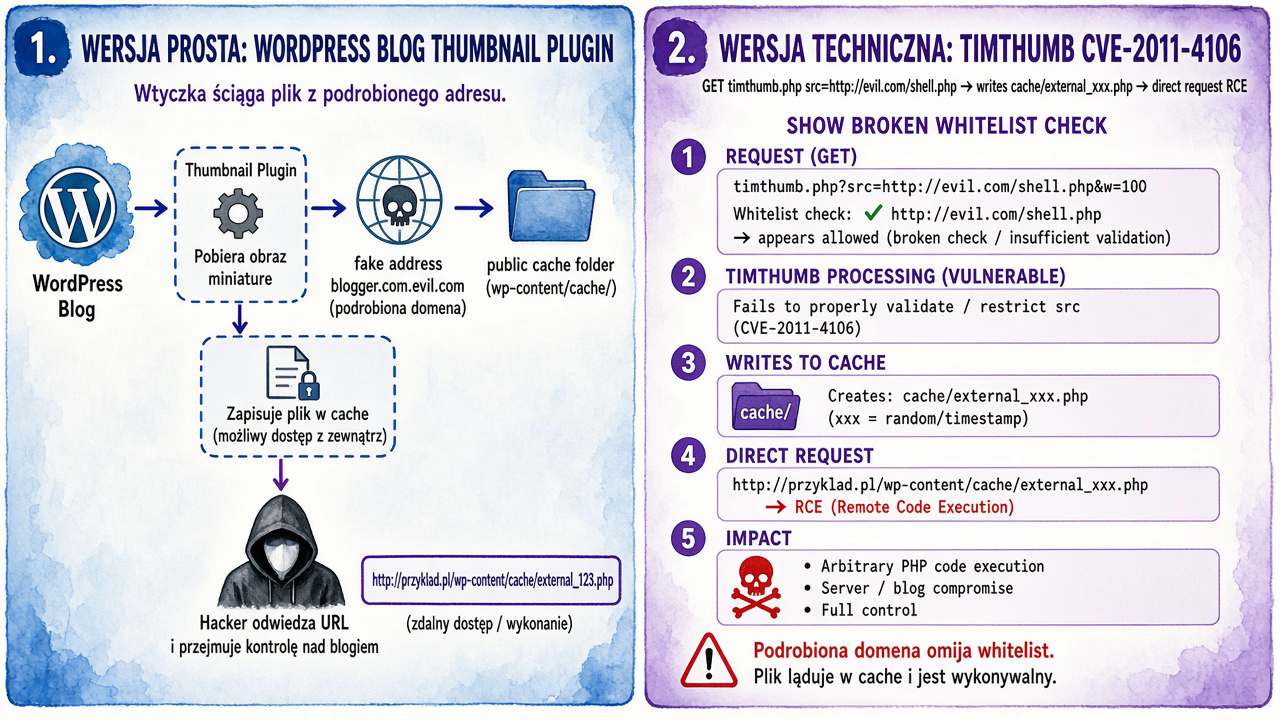
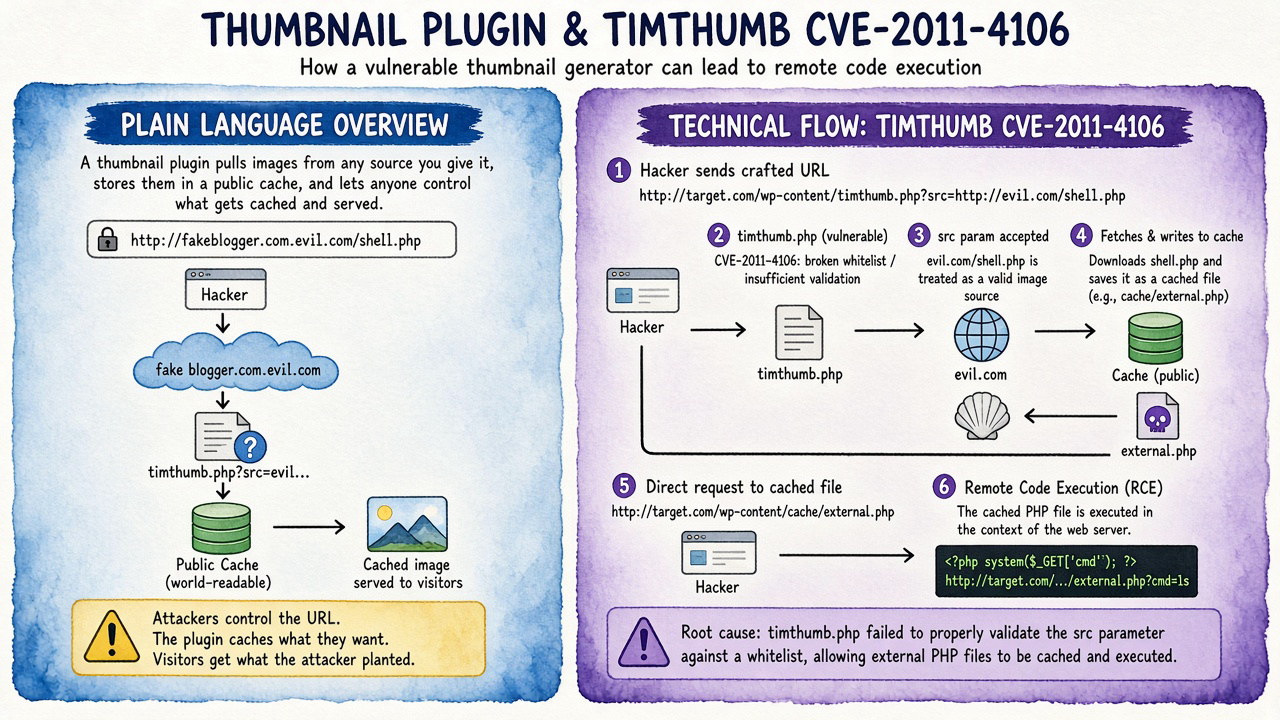
English historical case docs and dual illustrations

diff --git a/FileUpload/presentation/historical-cases/README.md b/FileUpload/presentation/historical-cases/README.md
@@ -1,31 +1,39 @@
 # File upload — famous cases (links + illustrations)
 
-Each case has a **dual PNG** in [`illustrations/`](illustrations/): **WERSJA PROSTA** (layperson) | **WERSJA TECHNICZNA** (developers).
+Each case has a **dual PNG** in [`illustrations/`](illustrations/): **PLAIN LANGUAGE** (non-technical) | **TECHNICAL** (developers).
 
 ---
 
-## 1. “Zdjęcie”, które było skryptem PHP (web shell)
+## 1. A “photo” that was a PHP script (web shell)
 
 | | |
 |---|---|
-| **Ilustracja** | [`illustrations/hist-01-php-shell-dual.png`](illustrations/hist-01-php-shell-dual.png) |
-| **PortSwigger — File uploads (teoria + web shell)** | https://portswigger.net/web-security/file-upload |
-| **Lab: RCE przez web shell** | https://portswigger.net/web-security/file-upload/lab-file-upload-remote-code-execution-via-web-shell-upload |
+| **Illustration** | [`illustrations/hist-01-php-shell-dual.png`](illustrations/hist-01-php-shell-dual.png) |
+| **PortSwigger — File uploads (theory + web shell)** | https://portswigger.net/web-security/file-upload |
+| **Lab: RCE via web shell** | https://portswigger.net/web-security/file-upload/lab-file-upload-remote-code-execution-via-web-shell-upload |
 | **Lab: blocklist + `.htaccess`** | https://portswigger.net/web-security/file-upload/lab-file-upload-web-shell-upload-via-extension-blacklist-bypass |
 | **OWASP — Unrestricted File Upload** | https://owasp.org/www-community/vulnerabilities/Unrestricted_File_Upload |
-| **ZeroExp — brak wykonywania w katalogu uploadów** | https://zeroexp.dev/library/prevent-upload-execution |
+| **ZeroExp — disable execution in upload dirs** | https://zeroexp.dev/library/prevent-upload-execution |
+
+**Plain language:** Someone uploads what looks like a picture; the server runs it as code and the attacker owns the machine.
+
+**Technical:** Upload `shell.php` (sometimes with a GIF header) → stored under a web root that executes PHP → `GET` = RCE.
 
 ---
 
-## 2. Upload `.htaccess` → nowe „rozszerzenie” wykonywalne
+## 2. Uploading `.htaccess` → a new “executable” extension
 
 | | |
 |---|---|
-| **Ilustracja** | [`illustrations/hist-02-htaccess-dual.png`](illustrations/hist-02-htaccess-dual.png) |
-| **PortSwigger lab (krok po kroku)** | https://portswigger.net/web-security/file-upload/lab-file-upload-web-shell-upload-via-extension-blacklist-bypass |
-| **OWASP Cheat Sheet — `.htaccess` w uploadzie** | https://cheatsheetseries.owasp.org/cheatsheets/File_Upload_Cheat_Sheet.html |
+| **Illustration** | [`illustrations/hist-02-htaccess-dual.png`](illustrations/hist-02-htaccess-dual.png) |
+| **PortSwigger lab (step-by-step)** | https://portswigger.net/web-security/file-upload/lab-file-upload-web-shell-upload-via-extension-blacklist-bypass |
+| **OWASP Cheat Sheet — `.htaccess` in uploads** | https://cheatsheetseries.owasp.org/cheatsheets/File_Upload_Cheat_Sheet.html |
 | **Cyber Library — `.htaccess` override abuse** | https://www.cyberlibrary.com/en/docs/offensive/software/applications/server/web/platform/apache/handler-and-type-mapping |
-| **GitHub Advisory (Vvveb CMS, real-world chain)** | https://github.com/givanz/Vvveb/security/advisories/GHSA-qpcx-gx2x-r8v2 |
+| **GitHub Advisory (Vvveb CMS, real chain)** | https://github.com/givanz/Vvveb/security/advisories/GHSA-qpcx-gx2x-r8v2 |
+
+**Plain language:** A tiny config file in the upload folder changes the rules so the next upload runs like a program.
+
+**Technical:** Upload `.htaccess` with `AddType application/x-httpd-php .l33t` → upload `exploit.l33t` → Apache executes it as PHP.
 
 ---
 
@@ -33,38 +41,50 @@ Each case has a **dual PNG** in [`illustrations/`](illustrations/): **WERSJA PRO
 
 | | |
 |---|---|
-| **Ilustracja** | [`illustrations/hist-03-timthumb-dual.png`](illustrations/hist-03-timthumb-dual.png) |
+| **Illustration** | [`illustrations/hist-03-timthumb-dual.png`](illustrations/hist-03-timthumb-dual.png) |
 | **CVE-2011-4106 (NVD)** | https://nvd.nist.gov/vuln/detail/CVE-2011-4106 |
-| **Mark Maunder — technical write-up (atak w praktyce)** | https://markmaunder.com/2011/technical-details-and-scripts-of-the-wordpress-timthumb-php-hack/ |
+| **Mark Maunder — technical write-up** | https://markmaunder.com/2011/technical-details-and-scripts-of-the-wordpress-timthumb-php-hack/ |
 | **TimThumb 2.0 announcement** | https://www.binarymoon.co.uk/2011/08/timthumb-2/ |
-| **Wordfence — plugin detail** | https://www.wordfence.com/threat-intel/vulnerabilities/detail/timthumb-133-remote-file-download |
+| **Wordfence — TimThumb ≤ 1.33** | https://www.wordfence.com/threat-intel/vulnerabilities/detail/timthumb-133-remote-file-download |
+
+**Plain language:** A thumbnail helper downloads a “image” from a forged address, saves it where anyone can open it, and the site is compromised.
+
+**Technical:** Broken domain whitelist on `src` → remote PHP lands in `cache/` → direct HTTP request executes it (CVE-2011-4106).
 
 ---
 
-## 4. Stored XSS przez upload SVG
+## 4. Stored XSS via SVG upload
 
 | | |
 |---|---|
-| **Ilustracja** | [`illustrations/hist-04-svg-xss-dual.png`](illustrations/hist-04-svg-xss-dual.png) |
-| **PortSwigger — client-side scripts via upload (SVG/HTML)** | https://portswigger.net/web-security/file-upload |
-| **MOZA write-up** | https://moza369.github.io/writeups/stored-xss-svg-upload/ |
-| **TypiCMS advisory (session / admin impact)** | https://github.com/TypiCMS/Core/security/advisories/GHSA-xfvg-8v67-j7wp |
-| **ComfyUI advisory (`/view` + SVG inline)** | https://github.com/Comfy-Org/ComfyUI/security/advisories/GHSA-rj8c-c4p8-3c5h |
+| **Illustration** | [`illustrations/hist-04-svg-xss-dual.png`](illustrations/hist-04-svg-xss-dual.png) |
+| **PortSwigger — client-side scripts (SVG/HTML uploads)** | https://portswigger.net/web-security/file-upload |
+| **PacketWanderer — Stored XSS via SVG** | https://packetwanderer.com/posts/svg-xss/ |
+| **TypiCMS advisory** | https://github.com/TypiCMS/Core/security/advisories/GHSA-xfvg-8v67-j7wp |
+| **ComfyUI advisory (`/view` + inline SVG)** | https://github.com/Comfy-Org/ComfyUI/security/advisories/GHSA-rj8c-c4p8-3c5h |
 | **OopsSec — MIME vs bytes + CSP** | https://koadt.github.io/oss-oopssec-store/posts/malicious-file-upload-stored-xss/ |
 
+**Plain language:** A file looks like a diagram; opening the link runs a hidden script and can steal login sessions.
+
+**Technical:** Upload `image/svg+xml` with `onload` / `<script>` → served inline or at a direct URL on the same origin → stored XSS (`<img>` often does **not** run the script).
+
 ---
 
-## 5. „CV” dla HR — malware zamiast życiorysu
+## 5. Fake “resume” for HR — malware, not a CV
 
-*(To głównie **social engineering + hosting**, nie klasyczna luka „upload na serwerze” — ale dobrze pokazuje kafelek **malware delivery** ze slajdu impact.)*
+*(Mostly **phishing + file delivery**, not a classic “broken upload” on the app server — but it illustrates **malware hosting on a trusted name**.)*
 
 | | |
 |---|---|
-| **Ilustracja** | [`illustrations/hist-05-fake-resume-dual.png`](illustrations/hist-05-fake-resume-dual.png) |
-| **Arctic Wolf (Venom Spider / More_eggs)** | https://arcticwolf.com/resources/blog/venom-spider-uses-server-side-polymorphism-to-weave-a-web-around-victims/ |
-| **CSO Online — summary** | https://www.csoonline.com/article/3977803/fake-resumes-targeting-hr-managers-now-come-with-updated-backdoor.html |
+| **Illustration** | [`illustrations/hist-05-fake-resume-dual.png`](illustrations/hist-05-fake-resume-dual.png) |
+| **Arctic Wolf — Venom Spider / More_eggs** | https://arcticwolf.com/resources/blog/venom-spider-uses-server-side-polymorphism-to-weave-a-web-around-victims/ |
+| **CSO Online** | https://www.csoonline.com/article/3977803/fake-resumes-targeting-hr-managers-now-come-with-updated-backdoor.html |
 | **The Hacker News (2024)** | https://thehackernews.com/2024/10/fake-job-applications-deliver-dangerous.html |
 | **eSentire — LinkedIn lure** | https://www.esentire.com/blog/more-eggs-activity-persists-via-fake-job-applicant-lures |
+
+**Plain language:** A recruiter downloads a “CV”; the zip holds a Windows shortcut, not a PDF — the workstation is infected.
+
+**Technical:** More_eggs campaigns — fake CV site, CAPTCHA, ZIP with malicious `.lnk` and a multi-stage backdoor.
 
 ---
 
@@ -72,28 +92,36 @@ Each case has a **dual PNG** in [`illustrations/`](illustrations/): **WERSJA PRO
 
 | | |
 |---|---|
-| **Ilustracja** | [`illustrations/hist-06-imagetragick-dual.png`](illustrations/hist-06-imagetragick-dual.png) |
-| **imagetragick.com (główne źródło + mitigations)** | https://imagetragick.com/ |
+| **Illustration** | [`illustrations/hist-06-imagetragick-dual.png`](illustrations/hist-06-imagetragick-dual.png) |
+| **imagetragick.com** | https://imagetragick.com/ |
 | **CVE-2016-3714 (NVD)** | https://nvd.nist.gov/vuln/detail/CVE-2016-3714 |
 | **CERT VU#250519** | https://kb.cert.org/vuls/id/250519 |
-| **Cloudflare — real payloads in the wild** | https://blog.cloudflare.com/inside-imagetragick-the-real-payloads-being-used-to-hack-websites-2/ |
+| **Cloudflare — payloads in the wild** | https://blog.cloudflare.com/inside-imagetragick-the-real-payloads-being-used-to-hack-websites-2/ |
 | **PoCs (GitHub)** | https://github.com/ImageTragick/PoCs |
+
+**Plain language:** A user uploads a profile photo; when the server resizes it, hidden commands run and the attacker gains shell access.
+
+**Technical:** CVE-2016-3714 — ImageMagick “delegate” / shell injection when processing crafted SVG/MVG; mitigate with updates, magic-byte checks, and `policy.xml`.
 
 ---
 
-## 7. IIS — `evil.asp;.jpg` (double extension / semicolon)
+## 7. IIS — `evil.asp;.jpg`
 
 | | |
 |---|---|
-| **Ilustracja** | [`illustrations/hist-07-iis-semicolon-dual.png`](illustrations/hist-07-iis-semicolon-dual.png) |
+| **Illustration** | [`illustrations/hist-07-iis-semicolon-dual.png`](illustrations/hist-07-iis-semicolon-dual.png) |
 | **CVE-2009-4444 (NVD)** | https://nvd.nist.gov/vuln/detail/CVE-2009-4444 |
 | **Rapid7 — Metasploit + JPG header** | https://old.rapid7.com/blog/post/2009/12/28/exploiting-microsoft-iis-with-metasploit/ |
-| **OWASP — bypasses (IIS semicolon, `file.php.jpg`)** | https://owasp.org/www-community/vulnerabilities/Unrestricted_File_Upload |
+| **OWASP — bypass list (IIS semicolon, double ext.)** | https://owasp.org/www-community/vulnerabilities/Unrestricted_File_Upload |
 | **PortSwigger — double extensions** | https://portswigger.net/web-security/file-upload |
+
+**Plain language:** The filename looks like `.jpg`, but legacy IIS treats part of the name differently and runs it as a server script.
+
+**Technical:** CVE-2009-4444 — IIS uses the extension **before** `;`; the upload filter only checks `.jpg`.
 
 ---
 
-## Kolejność plików PNG
+## File order
 
 ```
 illustrations/hist-01-php-shell-dual.png
@@ -105,4 +133,4 @@ illustrations/hist-06-imagetragick-dual.png
 illustrations/hist-07-iis-semicolon-dual.png
 ```
 
-Text on images is AI-generated — treat as teaching aids; verify wording before printing.
+On-image text is AI-generated — proofread before printing or projecting.

diff --git a/FileUpload/presentation/README.md b/FileUpload/presentation/README.md
@@ -34,7 +34,7 @@ Import PNGs into Keynote / PowerPoint (Insert → Picture). Text is baked into t
 
 ## Historical cases (reading list + dual illustrations)
 
-See [`historical-cases/README.md`](historical-cases/README.md): links to TimThumb, ImageTragick, `.htaccess`, SVG XSS, IIS semicolon, etc. Each case has **WERSJA PROSTA | WERSJA TECHNICZNA** PNG in `historical-cases/illustrations/`.
+See [`historical-cases/README.md`](historical-cases/README.md): reading list (TimThumb, ImageTragick, `.htaccess`, SVG XSS, IIS semicolon, etc.). Each case has a dual PNG (**PLAIN LANGUAGE | TECHNICAL**) in `historical-cases/illustrations/`.
 
 ## Note
 
